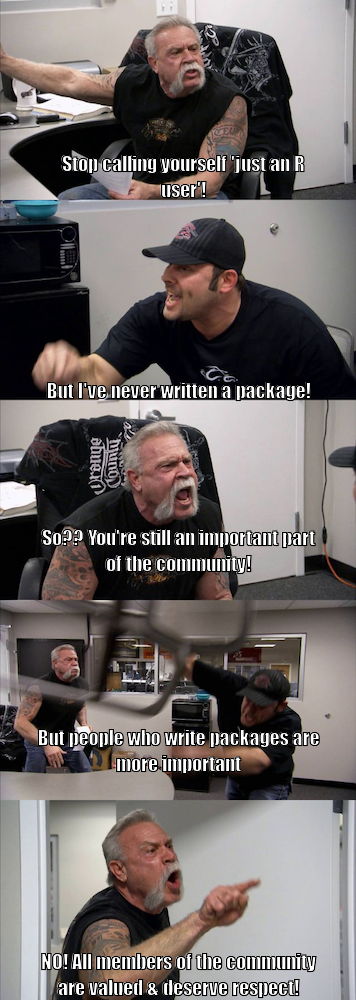
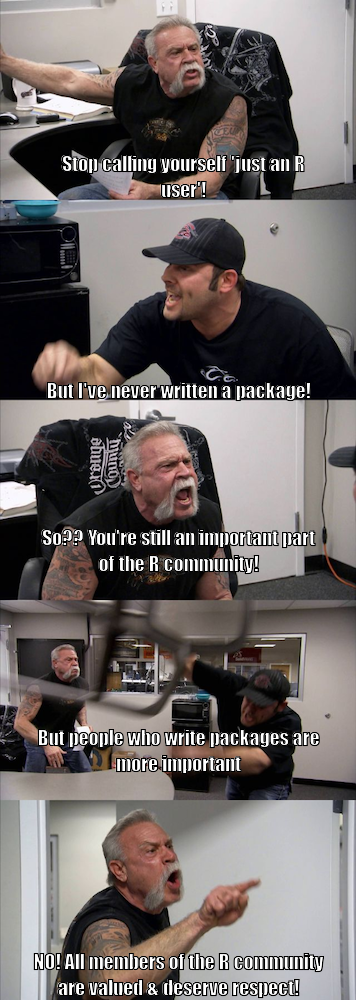
make meme more specific

Changed region(s): [[0.0927, 0.93, 0.927, 0.992], [0.2781, 0.558, 0.7416, 0.589]]

diff --git a/docs/reference/meme_text_distbf.html b/docs/reference/meme_text_distbf.html
@@ -299,9 +299,9 @@
 #&gt; </span><span style='color: #555555;'>1</span><span> PNG      700    395 sRGB       TRUE         0 72x72  </div><div class='input'><span class='fu'><a href='meme_get.html'>meme_get</a></span>(<span class='st'>"AmericanChopper"</span>) <span class='kw'>%&gt;%</span>
   <span class='fu'>meme_text_chopper</span>(<span class='st'>"Stop calling yourself 'just an R user'!"</span>,
                     <span class='st'>"But I've never written a package!"</span>,
-                    <span class='st'>"So?? You're still an important part of the community!"</span>,
+                    <span class='st'>"So?? You're still an important part of the R community!"</span>,
                     <span class='st'>"But people who write packages are more important"</span>,
-                    <span class='st'>"NO! All members of the community are valued &amp; deserve respect!"</span>)</div><div class='output co'>#&gt; </span><span style='color: #555555;'># A tibble: 1 x 7</span><span>
+                    <span class='st'>"NO! All members of the R community are valued &amp; deserve respect!"</span>)</div><div class='output co'>#&gt; </span><span style='color: #555555;'># A tibble: 1 x 7</span><span>
 #&gt;   format width height colorspace matte filesize density
 #&gt;   </span><span style='color: #555555;font-style: italic;'>&lt;chr&gt;</span><span>  </span><span style='color: #555555;font-style: italic;'>&lt;int&gt;</span><span>  </span><span style='color: #555555;font-style: italic;'>&lt;int&gt;</span><span> </span><span style='color: #555555;font-style: italic;'>&lt;chr&gt;</span><span>      </span><span style='color: #555555;font-style: italic;'>&lt;lgl&gt;</span><span>    </span><span style='color: #555555;font-style: italic;'>&lt;int&gt;</span><span> </span><span style='color: #555555;font-style: italic;'>&lt;chr&gt;</span><span>  
 #&gt; </span><span style='color: #555555;'>1</span><span> PNG      356   </span><span style='text-decoration: underline;'>1</span><span>000 sRGB       TRUE         0 28x28  </div><div class='input'><span class='fu'><a href='meme_get.html'>meme_get</a></span>(<span class='st'>"ExpandingBrain"</span>) <span class='kw'>%&gt;%</span>

diff --git a/docs/index.html b/docs/index.html
@@ -76,9 +76,9 @@
 <div class="sourceCode" id="cb3"><pre class="sourceCode r"><code class="sourceCode r"><a class="sourceLine" id="cb3-1" title="1"><span class="kw"><a href="reference/meme_get.html">meme_get</a></span>(<span class="st">"AmericanChopper"</span>) <span class="op">%&gt;%</span></a>
 <a class="sourceLine" id="cb3-2" title="2"><span class="st">  </span><span class="kw"><a href="reference/meme_text_distbf.html">meme_text_chopper</a></span>(<span class="st">"Stop calling yourself 'just an R user'!"</span>,</a>
 <a class="sourceLine" id="cb3-3" title="3">                    <span class="st">"But I've never written a package!"</span>,</a>
-<a class="sourceLine" id="cb3-4" title="4">                    <span class="st">"So?? You're still an important part of the community!"</span>,</a>
+<a class="sourceLine" id="cb3-4" title="4">                    <span class="st">"So?? You're still an important part of the R community!"</span>,</a>
 <a class="sourceLine" id="cb3-5" title="5">                    <span class="st">"But people who write packages are more important"</span>,</a>
-<a class="sourceLine" id="cb3-6" title="6">                    <span class="st">"NO! All members of the community are valued &amp; deserve respect!"</span>)</a></code></pre></div>
+<a class="sourceLine" id="cb3-6" title="6">                    <span class="st">"NO! All members of the R community are valued &amp; deserve respect!"</span>)</a></code></pre></div>
 <p><img src="index_files/figure-html/chopper-1.png" width="40%" style="display: block; margin: auto;"></p>
 </div>
   </div>

diff --git a/README.md b/README.md
@@ -25,9 +25,9 @@ meme_get("OprahGiveaway") %>%
 meme_get("AmericanChopper") %>%
   meme_text_chopper("Stop calling yourself 'just an R user'!",
                     "But I've never written a package!",
-                    "So?? You're still an important part of the community!",
+                    "So?? You're still an important part of the R community!",
                     "But people who write packages are more important",
-                    "NO! All members of the community are valued & deserve respect!")
+                    "NO! All members of the R community are valued & deserve respect!")
 ```
 
 <img src="README_files/figure-gfm/chopper-1.png" width="40%" style="display: block; margin: auto;" />
